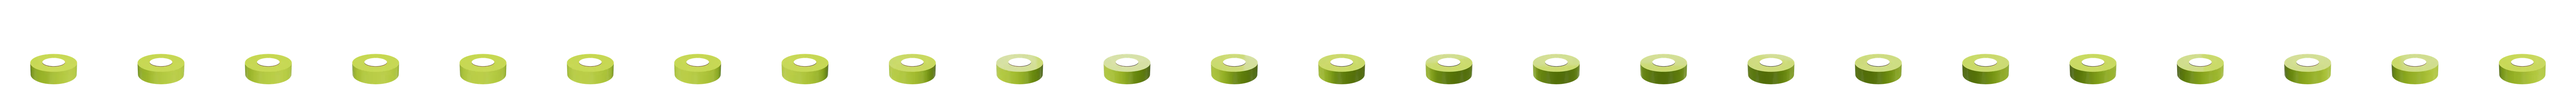
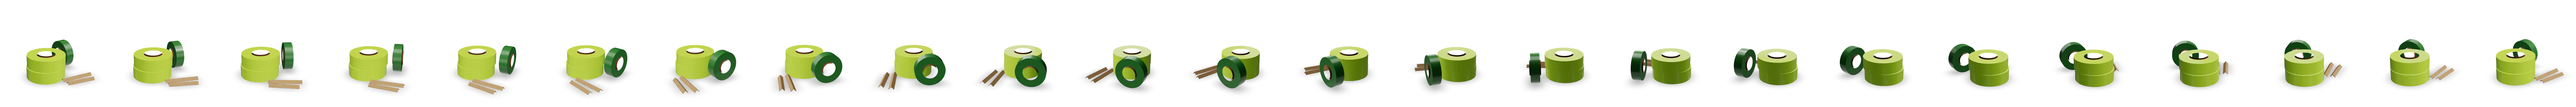
Вторая страница товара: стреппинг-лента, ПЭТ-лента и уголки
- Контент и SEO под запросы ленты для обвязки: виды (ПП, ПЭТ, уголки),
  характеристики, гайд подбора, применение, FAQ, своя форма расчёта
- Надпись над H1 настраивается: лента не из собственных производств
- 3D: две бобины ПП, ПЭТ на ребре и защитные уголки вместо одного цилиндра;
  перерендерены превью и вращение каталога
- Пункт «Любой объём» у формы без привязки к рулонам

Claude-Session: https://claude.ai/code/session_01Q8vHbXdHXy9vyW3D5LT2nc

Changed region(s): [[0.0, 0.375, 1.0, 0.875]]

diff --git a/lib/products/strepping-lenta.ts b/lib/products/strepping-lenta.ts
@@ -1,0 +1,96 @@
+import type { ProductPage } from './types';
+
+// Стреппинг-лента, ПЭТ-лента и защитные уголки. Факты — из брифа и старого сайта: ПП-лента 5–19 мм × 0,35–1 мм,
+// ПЭТ-лента 12–19 мм × 0,6–1,12 мм, разрывная нагрузка ПЭТ до ~1 т, защитные уголки. Ленты нет в списке шести
+// собственных производств — поэтому без «делаем сами»: склад в Твери, свой автопарк, любой объём. Цен пока нет.
+export const streppingLenta: ProductPage = {
+  slug: 'strepping-lenta-i-peht-lenta-zashchitnye-ugolki',
+  seo: {
+    title: 'Стреппинг-лента и ПЭТ-лента, защитные уголки купить оптом в Твери — Kaspack',
+    description:
+      'ПП стреппинг-лента 5–19 мм, ПЭТ-лента 12–19 мм с разрывной нагрузкой до 1 т и защитные уголки для обвязки грузов. Своя доставка по России, расчёт за 15 минут.',
+    keywords: [
+      'стреппинг лента купить', 'лента для обвязки грузов', 'пэт лента для обвязки', 'полипропиленовая лента',
+      'упаковочная лента пп', 'защитные уголки для упаковки', 'стреппинг лента оптом', 'стреппинг лента Тверь',
+    ],
+  },
+  hero: {
+    eyebrow: 'Расходники · со склада в Твери',
+    h1: 'Стреппинг-лента',
+    kicker: 'ПП, ПЭТ и защитные уголки',
+    lead: 'Лента для обвязки грузов на поддонах и в пачках: полипропиленовая для лёгких и средних грузов, ПЭТ для тяжёлых. Уголки берегут края коробов. Подберём размер под ваш груз и привезём своей машиной.',
+    facts: [
+      { value: '5–19', label: 'ширина ПП-ленты, мм' },
+      { value: '12–19', label: 'ширина ПЭТ-ленты, мм' },
+      { value: 'до 1 т', label: 'разрыв ПЭТ-ленты' },
+      { value: '2 вида', label: 'ленты: ПП и ПЭТ' },
+    ],
+  },
+  headings: {
+    types: 'ПП-лента, ПЭТ-лента и уголки',
+    specs: 'Характеристики стреппинг-ленты',
+    uses: 'Для чего нужна стреппинг-лента',
+    related: 'С лентой берут для отгрузки',
+    faq: 'Вопросы о стреппинг-ленте',
+    final: 'Посчитаем ленту и уголки с доставкой за 15 минут',
+  },
+  form: {
+    title: 'Подберём ленту под ваш груз',
+    note: 'Отметьте, что знаете. Остальное менеджер уточнит по телефону и пришлёт стоимость с доставкой.',
+    fields: [
+      { id: 'what', label: 'Что нужно', kind: 'chips', multiple: true, options: ['ПП-лента', 'ПЭТ-лента', 'Уголки'] },
+      { id: 'width', label: 'Ширина ленты', kind: 'number', unit: 'мм', placeholder: '12', hint: '5–19 мм' },
+      { id: 'thickness', label: 'Толщина ленты', kind: 'number', unit: 'мм', placeholder: '0,8', hint: '0,35–1,12 мм' },
+      { id: 'method', label: 'Как обвязываете', kind: 'chips', options: ['Вручную', 'Машиной'] },
+      { id: 'volume', label: 'Объём', kind: 'number', units: ['бобин', 'паллет'], placeholder: '20' },
+      { id: 'period', label: 'Как часто', kind: 'chips', options: ['Разово', 'Каждый месяц', 'Чаще'] },
+      { id: 'comment', label: 'Что обвязываете', kind: 'textarea', placeholder: 'Например: поддоны с плиткой, около 900 кг' },
+    ],
+  },
+  types: [
+    {
+      title: 'ПП-лента',
+      text: 'Полипропиленовая лента для лёгких и средних грузов: короба на поддоне, пачки, пакеты.',
+      points: ['Ширина 5–19 мм', 'Толщина 0,35–1 мм', 'Дешевле ПЭТ-ленты'],
+    },
+    {
+      title: 'ПЭТ-лента',
+      text: 'Полиэстеровая лента для тяжёлых грузов: держит вес и почти не растягивается в дороге.',
+      points: ['Ширина 12–19 мм', 'Толщина 0,6–1,12 мм', 'Разрывная нагрузка до 1 т'],
+    },
+    {
+      title: 'Защитные уголки',
+      text: 'Ставятся на углы груза под ленту: лента не мнёт и не режет короба, пакет держит форму.',
+      points: ['Под ленту и стрейч-плёнку', 'Берегут края коробов', 'Жёстче держат пакет на поддоне'],
+    },
+  ],
+  specs: [
+    { group: 'ПП-лента', rows: [['Ширина', '5–19 мм'], ['Толщина', '0,35–1 мм']] },
+    { group: 'ПЭТ-лента', rows: [['Ширина', '12–19 мм'], ['Толщина', '0,6–1,12 мм'], ['Разрывная нагрузка', 'до 1 т']] },
+    { group: 'Уголки', rows: [['Назначение', 'защита углов груза при обвязке']] },
+    { group: 'Поставка', rows: [['Объём', 'от разовой закупки до регулярных поставок'], ['Доставка', 'своим автопарком по России'], ['Склад', 'Тверь']] },
+  ],
+  guide: {
+    title: 'Как подобрать ленту для обвязки',
+    intro: 'Лента должна выдержать вес груза и не порезать короба. Мы смотрим на три вещи.',
+    steps: [
+      { title: 'Вес груза', text: 'Для лёгких и средних грузов хватает ПП-ленты. Тяжёлые поддоны с плиткой, кирпичом или металлом обвязывают ПЭТ-лентой: она прочнее и почти не тянется.' },
+      { title: 'Ширина и толщина', text: 'Чем тяжелее груз, тем шире и толще лента. Подберём размер под ваш вес: 5–19 мм для ПП-ленты и 12–19 мм для ПЭТ.' },
+      { title: 'Нужны ли уголки', text: 'Если короба мягкие или у груза острые края, ставьте уголки. Лента не продавит картон и не перетрётся о край.' },
+    ],
+  },
+  uses: [
+    { title: 'Обвязка поддонов', text: 'Вместе со стрейч-плёнкой лента держит груз на поддоне при погрузке и в дороге.' },
+    { title: 'Пакетирование', text: 'Пачки коробов, досок или труб собираются в одно место, их проще грузить и считать.' },
+    { title: 'Защита краёв груза', text: 'Уголки под лентой сохраняют короба целыми и не дают пакету перекоситься.' },
+  ],
+  related: ['strejch-plenka', 'poddony-borta-brus', 'gofrotara', 'skotch'],
+  faq: [
+    { q: 'Чем ПЭТ-лента лучше полипропиленовой?', a: 'ПЭТ прочнее: разрывная нагрузка до 1 т, она почти не растягивается и держит тяжёлый груз. ПП-лента дешевле и подходит для лёгких и средних грузов.' },
+    { q: 'Какую ширину ленты выбрать?', a: 'ПП-лента бывает от 5 до 19 мм, ПЭТ-лента от 12 до 19 мм. Назовите вес и тип груза, и менеджер подберёт ширину и толщину.' },
+    { q: 'Зачем нужны защитные уголки?', a: 'Лента давит на края коробов и может их смять или прорезать. Уголки распределяют нагрузку, и упаковка остаётся целой.' },
+    { q: 'Можно купить небольшой объём?', a: 'Да. Отгружаем любой объём: от разовой закупки до регулярных поставок по графику.' },
+    { q: 'Привезёте вместе с плёнкой и поддонами?', a: 'Да. Возим своим автопарком со склада в Твери по всей России: лента, плёнка, короба и поддоны приедут одной машиной.' },
+    { q: 'Как быстро будет расчёт?', a: 'В рабочее время (Пн–Пт, 9:00–18:00 МСК) перезваниваем за 15 минут. Оставьте заявку или позвоните: +7 (800) 550-40-08.' },
+  ],
+};

diff --git a/components/three/products.tsx b/components/three/products.tsx
@@ -269,28 +269,38 @@ export function Tape({ m }: P) {
   );
 }
 
-export function Strapping({ m }: P) {
-  const coil = useMemo(() => {
-    const pts: THREE.Vector3[] = [];
-    for (let i = 0; i <= 600; i++) {
-      const t = (i / 600) * Math.PI * 2 * 14, r = 0.18 + (i / 600) * 0.14;
-      pts.push(v(Math.cos(t) * r, (i / 600) * 0.004, Math.sin(t) * r));
-    }
-    return new THREE.TubeGeometry(new THREE.CatmullRomCurve3(pts), 1200, 0.006, 4, false);
-  }, []);
+/** Защитный уголок: L-профиль из картона, лежит рёбрами вверх. */
+function Corner({ m, len = 0.46, leg = 0.05 }: { m: Lib; len?: number; leg?: number }) {
+  const a = leg * Math.SQRT1_2;
   return (
     <group>
-      <group position={[0, 0, 0]}>
-        {Array.from({ length: 14 }, (_, i) => (
-          <mesh key={i} material={m.lime} position-y={0.03 + i * 0.012} castShadow>
-            <torusGeometry args={[0.18 + i * 0.0001, 0.006, 4, 1]} />
-          </mesh>
-        ))}
-        <mesh material={m.lime} position-y={0.1} castShadow><cylinderGeometry args={[0.33, 0.33, 0.18, 96, 1, true]} /></mesh>
-        <mesh material={m.lime} position-y={0.19} rotation-x={-Math.PI / 2}><ringGeometry args={[0.16, 0.33, 96]} /></mesh>
-        <mesh material={m.core} position-y={0.1}><cylinderGeometry args={[0.16, 0.16, 0.19, 64, 1, true]} /></mesh>
-        <primitive object={new THREE.Mesh(coil, m.lime)} visible={false} />
+      <mesh material={m.kraft} castShadow position={[0, a / 2, a / 2]} rotation-x={Math.PI / 4}><boxGeometry args={[len, 0.005, leg]} /></mesh>
+      <mesh material={m.kraft} castShadow position={[0, a / 2, -a / 2]} rotation-x={-Math.PI / 4}><boxGeometry args={[len, 0.005, leg]} /></mesh>
+    </group>
+  );
+}
+
+export function Strapping({ m }: P) {
+  // бобина ПП-ленты (лайм), за ней ПЭТ-лента (зелёная), спереди два защитных уголка; всё в круге r≈0.58 —
+  // при любом ракурсе стоит на ленте конвейера
+  return (
+    <group>
+      {/* две бобины ПП стопкой */}
+      {[0, 1].map((i) => (
+        <group key={i} position={[-0.12 + i * 0.015, i * 0.161, -0.02 - i * 0.01]}>
+          <Roll m={m} r={0.27} h={0.16} core={0.13} body={m.lime} />
+          <WindRings r={0.27} core={0.13} y={0.16} mat={m.limeEdge} />
+        </group>
+      ))}
+      {/* ПЭТ на ребре: ось вдоль x */}
+      <group position={[0.3, 0.2, -0.2]} rotation-z={Math.PI / 2}>
+        <group position-y={-0.06}>
+          <Roll m={m} r={0.2} h={0.12} core={0.1} body={m.pet} />
+          <WindRings r={0.2} core={0.1} y={0.12} mat={m.petEdge} />
+        </group>
       </group>
+      <group position={[0.2, 0, 0.28]} rotation-y={-0.12}><Corner m={m} /></group>
+      <group position={[0.17, 0, 0.4]} rotation-y={-0.2}><Corner m={m} len={0.4} /></group>
     </group>
   );
 }

diff --git a/components/product/ProductTemplate.tsx b/components/product/ProductTemplate.tsx
@@ -37,7 +37,7 @@ export function ProductTemplate({ page, category }: { page: ProductPage; categor
                 <li aria-current="page" className="text-ink-soft">{page.hero.h1}</li>
               </ol>
             </nav>
-            <p className="mt-8 text-[14px] font-semibold text-ink-soft">{families[category.family]} · своё производство в Твери</p>
+            <p className="mt-8 text-[14px] font-semibold text-ink-soft">{page.hero.eyebrow ?? `${families[category.family]} · своё производство в Твери`}</p>
             <h1 id="product-title" className="mt-3">
               <span className="giant block text-[clamp(2.9rem,7.4vw,8.2rem)] leading-[1.02]">{page.hero.h1}</span>
               <span className="title mt-2 block text-[clamp(1.6rem,3vw,3rem)] text-ink-soft">{page.hero.kicker}</span>
@@ -77,7 +77,7 @@ export function ProductTemplate({ page, category }: { page: ProductPage; categor
             <ul className="mt-8 grid gap-3 text-[16px] text-graphite-ink">
               <li className="flex gap-3"><Check />Ответ за {company.responseMinutes} минут в рабочее время</li>
               <li className="flex gap-3"><Check />Доставка своим автопарком по России</li>
-              <li className="flex gap-3"><Check />Любой объём: от одного рулона до регулярных поставок</li>
+              <li className="flex gap-3"><Check />Любой объём: от разовой закупки до регулярных поставок</li>
             </ul>
           </div>
           <div className="lg:col-span-7">
@@ -94,7 +94,7 @@ export function ProductTemplate({ page, category }: { page: ProductPage; categor
           {page.types && (
             <>
               <h2 id="types-title" className="title max-w-[18ch] text-[clamp(2rem,3.4vw,3.4rem)]">{page.headings.types}</h2>
-              <ul className="mt-10 grid gap-4 md:grid-cols-2">
+              <ul className={`mt-10 grid gap-4 md:grid-cols-2 ${page.types.length === 3 ? 'lg:grid-cols-3' : ''}`}>
                 {page.types.map((t) => (
                   <li key={t.title} className="rounded-[28px] bg-surface p-7 shadow-[0_1px_0_var(--color-line)] md:p-9">
                     <h3 className="font-display text-[clamp(1.4rem,2vw,1.9rem)] font-bold tracking-[-0.03em]">{t.title}</h3>

diff --git a/components/three/materials.ts b/components/three/materials.ts
@@ -60,6 +60,10 @@ function create() {
     tape: new THREE.MeshPhysicalMaterial({ color: '#c79a5a', roughness: 0.22, transmission: 0.35, thickness: 0.3, clearcoat: 0.9 }),
     tapeEdge: new THREE.MeshStandardMaterial({ color: '#a77d45', roughness: 0.45 }),
     lime: new THREE.MeshPhysicalMaterial({ color: '#beea1f', roughness: 0.4, clearcoat: 0.4 }),
+    // витки на торце бобины ленты и ПЭТ-лента (классический зелёный ПЭТ)
+    limeEdge: new THREE.MeshStandardMaterial({ color: '#8fb312', roughness: 0.55 }),
+    pet: new THREE.MeshPhysicalMaterial({ color: '#3f7a3a', roughness: 0.35, clearcoat: 0.5 }),
+    petEdge: new THREE.MeshStandardMaterial({ color: '#2a5527', roughness: 0.5 }),
     graphite: new THREE.MeshStandardMaterial({ color: '#2b2f36', roughness: 0.6 }),
     steel: new THREE.MeshStandardMaterial({ color: '#d3d8de', roughness: 0.32, metalness: 0.85 }),
     cable: new THREE.MeshStandardMaterial({ color: '#23262c', roughness: 0.45 }),

diff --git a/lib/products/index.ts b/lib/products/index.ts
@@ -1,9 +1,11 @@
 import type { ProductPage } from './types';
 import { strejchPlenka } from './strejch-plenka';
+import { streppingLenta } from './strepping-lenta';
 
 // Реестр страниц товаров. Пока страницы нет в реестре, категория открывается упрощённым шаблоном.
 const PAGES: Record<string, ProductPage> = {
   [strejchPlenka.slug]: strejchPlenka,
+  [streppingLenta.slug]: streppingLenta,
 };
 
 export const getProductPage = (slug: string): ProductPage | undefined => PAGES[slug];

diff --git a/lib/products/types.ts b/lib/products/types.ts
@@ -20,6 +20,8 @@ export type ProductPage = {
     keywords: string[];
   };
   hero: {
+    /** надпись над H1; по умолчанию «Семейство · своё производство в Твери» — только для того, что делаем сами */
+    eyebrow?: string;
     h1: string;
     /** вторая строка заголовка: ключ «оптом от производителя» естественным языком */
     kicker: string;

diff --git a/docs/PRODUCT-PAGE.md b/docs/PRODUCT-PAGE.md
@@ -27,6 +27,7 @@
 - **canonical** `https://kaspack.ru/<slug>`, Open Graph с картинкой товара.
 - **JSON-LD** (`@graph`): `BreadcrumbList`, `Product` (бренд Kaspack, производитель ООО «Каспак», характеристики; без `offers`, пока нет цен), `FAQPage`. Organization — общий на весь сайт.
 - **Уникальность**: гайд, виды, FAQ и применение пишутся под каждый товар. Нельзя копировать тексты между страницами — иначе тонкий контент.
+- **Надпись над H1** (`hero.eyebrow`): по умолчанию «Семейство · своё производство в Твери». Для товаров не из шести собственных производств (плёнка, гофра, поддоны, гранулы, этикетки, метизы) задаём свою, например «Расходники · со склада в Твери».
 - **Только факты**: в контент попадают подтверждённые данные (бриф, старый сайт, заказчик). Нет цифры — пишем качественно, не выдумываем.
 
 ## Гибкая форма
